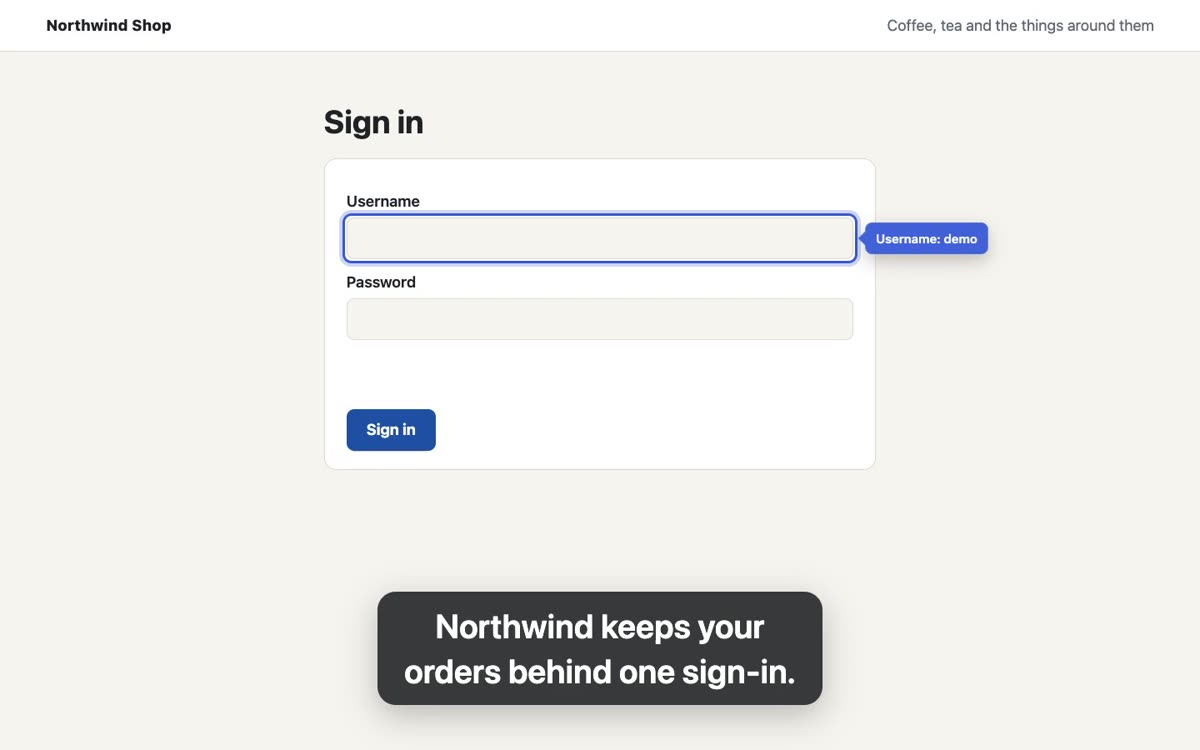
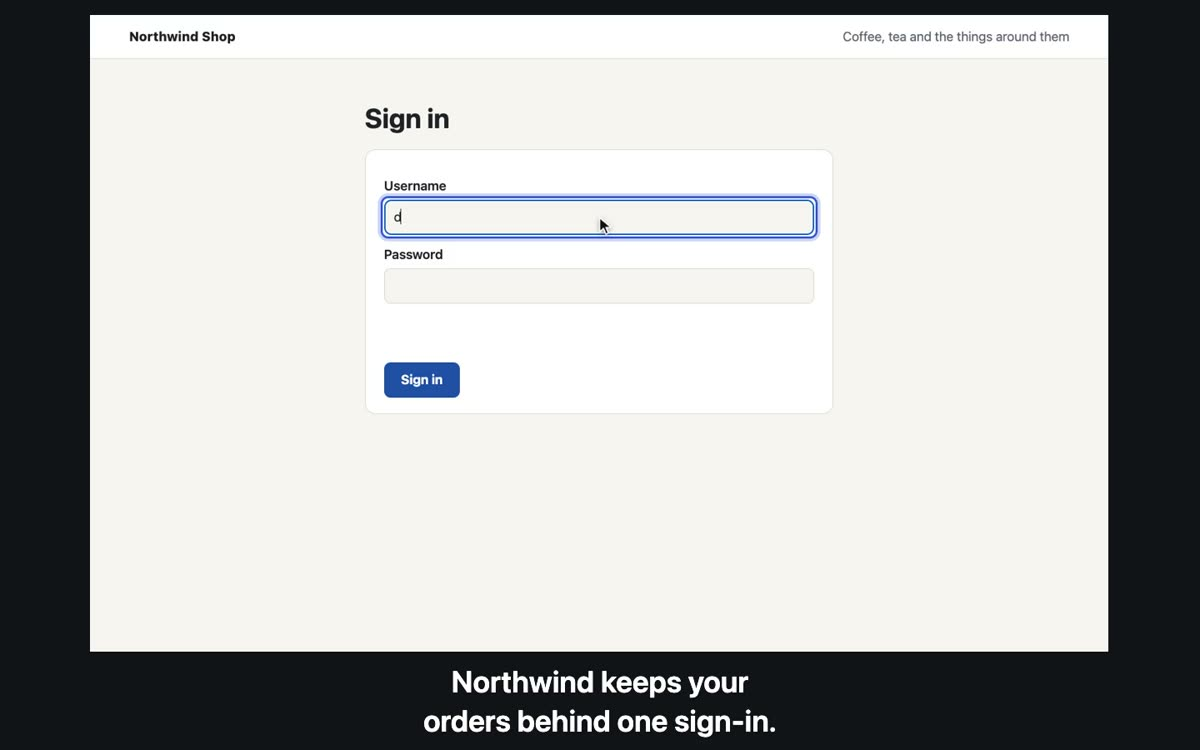
Docs for v2.38.0: three videos per take, the captions band, .vtt, fast-forwarded waits (RULES §27, manual, agent rules and the skill, FEATURES, README, CHANGELOG, the site's Web Demos page and its film frame, the spec, HANDOFF, CLAUDE.md)

diff --git a/docs/superpowers/specs/2026-11-10-web-demos.md b/docs/superpowers/specs/2026-11-10-web-demos.md
@@ -31,8 +31,10 @@ The two share the **script format** (this file is its source), not code.
 4. **Both outputs:** one MP4 per feature *and* one full video with chapters.
 5. **Callouts** in the video (notes pointing at an element, e.g. the demo login
    to use).
-6. **Captions** of the narration: an `.srt` always, burned into the video with
-   `--captions`.
+6. **Captions** of the narration: an `.srt` and a `.vtt` always, and since
+   v2.38.0 a `.captions.mp4` beside the plain video, with the picture shrunk
+   above a band where the captions go (burned-in captions over the picture
+   hid the command just typed in terminal scenes; the founder, 2026-11-10).
 7. **si's voice is Kokoro `af_heart`** (`voice: kokoro:af_heart`): the voice
    of si's own manual and site videos, and the default when Kokoro is
    installed (the founder picked it from samples on 2026-11-10; Kokoro made 8 s
@@ -112,24 +114,32 @@ matter), then fails with the closest matches it saw.
 ```bash
 si demo run shop.md            # the videos, the narration, captions, chapters, the report
 si demo test shop.md           # the checks only: fast, no video; exit 1 on a failure; --junit report.xml
-si demo run shop.md --feature "Pay for an order" --captions --viewport phone
+si demo run shop.md --feature "Pay for an order" --viewport phone
 ```
 
 ### `si demo run`: what it writes (`demo-out/<script>/`)
 
 | File | What |
 |---|---|
-| `<feature>.mp4` | the feature, video and voice mixed (H.264 + AAC) |
-| `<feature>.video.mp4` | the same video, silent |
+| `<feature>.mp4` | the feature, picture and voice mixed (H.264 + AAC), no captions |
+| `<feature>.video.mp4` | the picture alone: no sound, no captions |
+| `<feature>.captions.mp4` | picture, voice and captions: the picture shrunk (aspect kept) into the top of the same frame, centered on #111318, the captions white in a band under it (v2.38.0) |
 | `<feature>.voice.m4a` (and `.wav`) | the narration alone, to re-voice or edit |
-| `<feature>.srt` | captions of the `Say:` lines, timed |
+| `<feature>.srt` + `<feature>.vtt` | captions of the `Say:` lines, timed (VTT for a web page's `<track>`) |
 | `all.mp4` | every feature in one video, a title card per feature, chapters embedded |
+| `all.video.mp4` · `all.captions.mp4` | the same, picture only, and with the captions band |
+| `all.srt` · `all.vtt` | the captions of `all.mp4` |
 | `chapters.txt` | YouTube chapter lines (`0:00 Pay for an order`) |
 | `report.html` + `report.json` | the run (see the QA report) |
 | `README.md` + `README.html` | what is in the folder: a table of every file, each feature with its video playing in the page, the script, how it was made (the founder asked for both, 2026-11-10; README.html is built by si itself, videos linked, not inlined) |
 
-`--captions` burns the narration into the video (bottom, the theme's look,
-two lines at most); without it, the `.srt` sits beside the video.
+All three videos come from one take (`--no-captions` skips the captions
+ones; `--captions` is a no-op kept for old commands). A wait (`run … · wait`,
+`stop … · wait`, `wait for output`, `expect output … within`, `wait for "…"`,
+`start … · wait for …`) plays at speed for its first 3 s and faster after
+(at most 2 s, a ⏩ N× badge), never under the voice; the take records the
+wait windows and the encoder maps time (`--fast-forward 3s`,
+`--no-fast-forward`).
 
 ### How a take works
 

diff --git a/docs/site/features/webdemos.md b/docs/site/features/webdemos.md
@@ -109,7 +109,7 @@ that the shop does not know.
 ## On film
 
 ```bash
-SHOP_PASSWORD=shop-demo si demo run shop.md --captions
+SHOP_PASSWORD=shop-demo si demo run shop.md
 ```
 
 The same steps, filmed in a browser you never see. A drawn cursor glides to
@@ -117,7 +117,7 @@ each button and a ripple marks the click; `note "Username: demo" at
 "Username"` puts a bubble beside the field until the narration moves on; text
 is typed at a person's pace, and a field typed from a `$VAR` is blurred.
 
-![A frame of the sign-in video: the Username field ringed, a note "Username: demo" beside it, and the caption "Northwind keeps your orders behind one sign-in."](img/webdemos/film.jpg)
+![A frame of the sign-in captions video: the drawn cursor in the Username field as "demo" is typed, the picture a little smaller at the top, and under it, in a dark band, the caption "Northwind keeps your orders behind one sign-in."](img/webdemos/film.jpg)
 
 **The words set the pace.** Every `Say:` line is voiced before the take and
 measured; the steps under it are spread over its words, and a block whose
@@ -129,18 +129,29 @@ In `demo-out/shop/`:
 
 | File | What |
 |---|---|
-| `pay-for-an-order.mp4` | the feature, video and voice |
-| `pay-for-an-order.video.mp4` | the same, silent |
+| `pay-for-an-order.mp4` | the feature, picture and voice |
+| `pay-for-an-order.video.mp4` | the picture alone, no sound |
+| `pay-for-an-order.captions.mp4` | picture, voice and captions in a band under the picture |
 | `pay-for-an-order.voice.m4a` · `.wav` | the narration alone |
-| `pay-for-an-order.srt` | captions, timed |
-| `all.mp4` | every feature after a title card, chapters inside |
+| `pay-for-an-order.srt` · `.vtt` | captions, timed (SubRip, and WebVTT for the web) |
+| `all.mp4` · `all.video.mp4` · `all.captions.mp4` | every feature after a title card, chapters inside |
+| `all.srt` · `all.vtt` | the captions of `all.mp4` |
 | `chapters.txt` | `0:00 Sign in` lines for a YouTube description |
 | `report.html` · `report.json` | the run, linked to the clips |
-| `README.md` · `README.html` | every file, each video in the page, the script, how it was made |
+| `README.md` · `README.html` | every file, each video in the page with its captions track, the script, how it was made |
 
-`--captions` burns the captions into the video as well (bottom, two lines at
-most); `--viewport phone` films the phone layout; `--feature "Pay for an
-order"` films one feature.
+The three videos come from one take. In the captions video the picture shrinks
+into the top of the frame and the captions sit in a dark band under it, so
+they never hide the command just typed. `--no-captions` skips those videos;
+`--viewport phone` films the phone layout; `--feature "Pay for an order"`
+films one feature.
+
+**Long waits play faster.** A command that runs for a while, a program
+starting, a wait for some output: after its first 3 s the video plays it
+faster (it lasts 2 s at most) with a ⏩ badge in the corner. The voice is
+never sped up, and the captions and chapters follow the shorter video.
+`--fast-forward 5s` changes the 3 s; `--no-fast-forward` keeps every wait as
+it was.
 
 ## With a terminal
 

diff --git a/docs/RULES.md b/docs/RULES.md
@@ -2811,8 +2811,9 @@ si demo: 0 passed, 1 failed in 6.9s; report: demo-out/shop/report.html
 
 ```bash
 SHOP_PASSWORD=shop-demo si demo run shop.md
-si demo run shop.md --feature "Pay for an order" --captions --viewport phone
+si demo run shop.md --feature "Pay for an order" --viewport phone
 si demo run shop.md --voice system:Samantha -o videos/
+si demo run broker.md --fast-forward 5s --no-captions
 ```
 
 The same steps, filmed: a drawn cursor glides to each element and clicks
@@ -2827,16 +2828,30 @@ It writes into `demo-out/<script>/` (or `-o dir`):
 
 | File | What |
 |---|---|
-| `<feature>.mp4` | the feature, video and voice (H.264 + AAC, 30 fps) |
-| `<feature>.video.mp4` | the same video, silent |
+| `<feature>.mp4` | the feature, picture and voice (H.264 + AAC, 30 fps), no captions |
+| `<feature>.video.mp4` | the picture alone: no sound, no captions |
+| `<feature>.captions.mp4` | picture, voice and captions: the picture shrinks (aspect kept) into the top of the same frame, centered on a near-black backdrop, and the captions (white, two lines at most) sit in a band under it, so they never cover the picture |
 | `<feature>.voice.wav` · `.voice.m4a` | the narration alone, to edit or re-voice |
-| `<feature>.srt` | captions of the `Say:` lines, timed (always; `--captions` also burns them into the video, bottom, two lines at most) |
-| `all.mp4` | every feature, each after a title card (the feature and its `What it does:`), chapters embedded |
+| `<feature>.srt` · `<feature>.vtt` | captions of the `Say:` lines, timed: SubRip, and WebVTT for a web page's `<track>` |
+| `all.mp4` · `all.video.mp4` · `all.captions.mp4` | every feature, each after a title card (the feature and its `What it does:`), chapters embedded: with voice, picture only, with voice and captions |
+| `all.srt` · `all.vtt` | the captions of `all.mp4` |
 | `chapters.txt` | YouTube chapter lines: `0:00 Sign in` |
 | `report.html` · `report.json` | the run, each feature linked to its clip |
 | `README.md` · `README.html` | the folder: every file, each feature with its video (linked, not inlined), the script, how it was made |
 
 `<feature>` is the heading in lower case with dashes (`pay-for-an-order`).
+The three videos come from one take; a feature without `Say:` lines gets
+`.video.mp4` and a `.mp4` with silent sound only. `--no-captions` skips the
+`.captions.mp4` files (a faster run; the `.srt` and `.vtt` are still written);
+`--captions`, from before v2.38.0, is accepted and does nothing.
+
+**Long waits play faster.** A step that waits (`run … · wait`, `stop … ·
+wait`, `wait for output`, `expect output … within`, `wait for "…"`, `start … ·
+wait for …`) plays at speed for its first 3 s; the rest plays faster, so it
+lasts 2 s at most, with a ⏩ 6× badge at the top right. The narration never
+speeds up: a stretch under a `Say:` voice stays at speed, and the captions and
+chapters are timed on the faster video. `--fast-forward 5s` changes the 3 s;
+`--no-fast-forward` keeps every wait at speed.
 
 **Voices.** `voice: engine:name` in front matter, or `--voice`:
 

diff --git a/plugin/skills/si/references/27-web-demos.md b/plugin/skills/si/references/27-web-demos.md
@@ -108,8 +108,9 @@ si demo: 0 passed, 1 failed in 6.9s; report: demo-out/shop/report.html
 
 ```bash
 SHOP_PASSWORD=shop-demo si demo run shop.md
-si demo run shop.md --feature "Pay for an order" --captions --viewport phone
+si demo run shop.md --feature "Pay for an order" --viewport phone
 si demo run shop.md --voice system:Samantha -o videos/
+si demo run broker.md --fast-forward 5s --no-captions
 ```
 
 The same steps, filmed: a drawn cursor glides to each element and clicks
@@ -124,16 +125,30 @@ It writes into `demo-out/<script>/` (or `-o dir`):
 
 | File | What |
 |---|---|
-| `<feature>.mp4` | the feature, video and voice (H.264 + AAC, 30 fps) |
-| `<feature>.video.mp4` | the same video, silent |
+| `<feature>.mp4` | the feature, picture and voice (H.264 + AAC, 30 fps), no captions |
+| `<feature>.video.mp4` | the picture alone: no sound, no captions |
+| `<feature>.captions.mp4` | picture, voice and captions: the picture shrinks (aspect kept) into the top of the same frame, centered on a near-black backdrop, and the captions (white, two lines at most) sit in a band under it, so they never cover the picture |
 | `<feature>.voice.wav` · `.voice.m4a` | the narration alone, to edit or re-voice |
-| `<feature>.srt` | captions of the `Say:` lines, timed (always; `--captions` also burns them into the video, bottom, two lines at most) |
-| `all.mp4` | every feature, each after a title card (the feature and its `What it does:`), chapters embedded |
+| `<feature>.srt` · `<feature>.vtt` | captions of the `Say:` lines, timed: SubRip, and WebVTT for a web page's `<track>` |
+| `all.mp4` · `all.video.mp4` · `all.captions.mp4` | every feature, each after a title card (the feature and its `What it does:`), chapters embedded: with voice, picture only, with voice and captions |
+| `all.srt` · `all.vtt` | the captions of `all.mp4` |
 | `chapters.txt` | YouTube chapter lines: `0:00 Sign in` |
 | `report.html` · `report.json` | the run, each feature linked to its clip |
 | `README.md` · `README.html` | the folder: every file, each feature with its video (linked, not inlined), the script, how it was made |
 
 `<feature>` is the heading in lower case with dashes (`pay-for-an-order`).
+The three videos come from one take; a feature without `Say:` lines gets
+`.video.mp4` and a `.mp4` with silent sound only. `--no-captions` skips the
+`.captions.mp4` files (a faster run; the `.srt` and `.vtt` are still written);
+`--captions`, from before v2.38.0, is accepted and does nothing.
+
+**Long waits play faster.** A step that waits (`run … · wait`, `stop … ·
+wait`, `wait for output`, `expect output … within`, `wait for "…"`, `start … ·
+wait for …`) plays at speed for its first 3 s; the rest plays faster, so it
+lasts 2 s at most, with a ⏩ 6× badge at the top right. The narration never
+speeds up: a stretch under a `Say:` voice stays at speed, and the captions and
+chapters are timed on the faster video. `--fast-forward 5s` changes the 3 s;
+`--no-fast-forward` keeps every wait at speed.
 
 **Voices.** `voice: engine:name` in front matter, or `--voice`:
 

diff --git a/docs/reference/user-manual.md b/docs/reference/user-manual.md
@@ -329,23 +329,28 @@ Points:
 ## Web demos, on film
 
 ```bash
-SHOP_PASSWORD=shop-demo si demo run shop.md --captions
+SHOP_PASSWORD=shop-demo si demo run shop.md
 ```
 
 - A drawn cursor, click ripples, `note "…" at "Field"` callouts, blurred `$VAR` fields
 - Each `Say:` line voiced first: the narration sets the pace
 - `voice: kokoro:af_heart` (the default when installed), `system`, `elevenlabs`, `openai`
 - `pronounce: si = ess eye`: the voice says it, the captions keep the word
-- `<feature>.mp4` each, `all.mp4` with chapters, `chapters.txt`, `.srt`, README.html
+- Three videos per feature: `.video.mp4` (picture), `.mp4` (+ voice), `.captions.mp4` (captions under the picture)
+- `all.mp4` (and its two variants) with chapters, `chapters.txt`, `.srt` + `.vtt`, README.html
+- Long waits play faster, with a ⏩ badge; the voice never speeds up
 
 Notes: (1 min)
 The same script makes the videos. Every Say line is spoken first, so the
 words set the pace and the steps fit between them. A cursor glides to each
 button, notes point at the fields that matter, and passwords are blurred.
-You get one video per feature, one with chapters for YouTube, captions, and
-a page that lists it all. [CLICK]
+Each feature comes out three ways: the picture alone, with the voice, and with
+captions in a band under the picture, so they never hide what was typed. A
+long wait plays faster, and the voice stays at its own pace. You also get one
+video with chapters for YouTube and a page that lists it all. [CLICK]
 
 Points:
+- `--no-captions` skips the captions videos; `--fast-forward 5s` or `--no-fast-forward` for waits
 - Kokoro is si's own voice: `si voice install kokoro`, one command; without it, the computer's voice
 - Try a voice aloud: `si voice say "Hello" --voice kokoro:bf_emma`; `si voice list`
 - Cloud keys: `si voice login openai` keeps the key in your own si.conf, never the project's
@@ -397,7 +402,7 @@ si build <dir> --pdf       # self-contained HTML (+ PDF)
 si build talk.md --handout # handouts/talk.pdf: slides only; =lines, =points, =notes add space or speaker text
 si check <dir>             # validate; exit 1 on a problem
 si demo test shop.md       # run a web demo script against a web app as a test (report.html, --junit)
-si demo run shop.md        # the same, filmed and narrated: <feature>.mp4, all.mp4 with chapters, .srt (--captions)
+si demo run shop.md        # the same, filmed and narrated: <feature>.mp4, .video.mp4, .captions.mp4, all.mp4 with chapters, .srt/.vtt
 si doctor                  # the optional programs (Chrome, ffmpeg, git…): found or not, how to install each
 si new <name>              # scaffold a deck (the showcase, every rule)
 si new <name> --type article   # a small starter: deck, article, guide, book, site, page, lab, demo, mindmap, mindmap3d, codeshow

diff --git a/HANDOFF.md b/HANDOFF.md
@@ -5,6 +5,27 @@ Markdown/AsciiDoc into animated, self-contained HTML slide decks.
 
 ## Current state (2026-11-10)
 
+- **v2.38.0 (unreleased, on a worktree branch): three videos per take, the
+  captions band, fast-forwarded waits.** `internal/webdemo/film.go`
+  `finishTake` writes `.video.mp4` (picture + fast-forward badges),
+  `.mp4` (that + the voice, `-c:v copy`) and `.captions.mp4` (the same image
+  sequence encoded again: badges, then `band(w, h)` = scale to 85% + pad on
+  0x111318 at 2% from the top, then the caption PNGs in the bottom 13%, voice
+  muxed in the same call), `.srt` + `.vtt`; `joinAll` adds `all.video.mp4`
+  (all.mp4 with `-map 0:v -c copy`, chapters ride along), `all.captions.mp4`
+  (allArgs over the captions clips) and `all.srt`/`all.vtt`
+  (`joinCaptions`). Fast-forward: `r.waiting()` records wait windows in
+  `tk.waits` (run · wait, stop · wait, expect/wait for output, start, browser
+  wait for); `fastForward` (encode.go) cuts each to `[from+after, to]`,
+  subtracts `tk.spoken` (the voice never plays over sped-up picture), picks
+  X = ceil(len/2 s); `sequence` samples the take through `inT`, voice,
+  captions and badges are placed with `outT`, so the clip length (and the
+  chapters) come from the output. Options: `NoCaptions`, `FastForward`
+  (`--fast-forward 3s` default in cmd, 0 in tests); `--captions` is a no-op.
+  FeatureResult gains `videoOnly` / `videoCaptions`. Verified: broker.md,
+  shop.md and a `sleep 14` script (a 6× badge, 9.2 s shorter), frames looked
+  at. Next: a nicer badge animation; a `fast-forward:` front-matter key if
+  someone asks.
 - **v2.37.0 (unreleased, on a worktree branch): `si voice`.**
   `cmd/si/voice.go`: `say` (voice: `--voice` > si.conf `voice:` > default;
   an engine whose `Ready()` fails falls back to `system` with one stderr

diff --git a/CHANGELOG.md b/CHANGELOG.md
@@ -3,6 +3,22 @@
 What changed in each release of si, newest first. Every release, with its
 binaries and the Mac app: https://github.com/felipeg48/simple-ideas/releases
 
+- **v2.38.0:** `si demo run` makes three videos from one take: `<feature>.video.mp4`
+  (the picture alone), `<feature>.mp4` (picture and voice) and
+  `<feature>.captions.mp4` (picture, voice and captions); the same for the
+  whole run (`all.video.mp4`, `all.mp4`, `all.captions.mp4`, title cards and
+  chapters in each). Captions never cover the picture any more: in the
+  captions video the picture shrinks into the top of the frame and the
+  captions sit in a dark band under it (they used to hide the command just
+  typed in a terminal). A `.vtt` is written beside every `.srt` (and
+  `all.srt`/`all.vtt`), and README.html plays each feature with a captions
+  track and links all three videos; so does the report. Long waits play
+  faster: after its first 3 s a command, a program starting or a wait for
+  output is sped up to last 2 s at most, with a ⏩ badge; the voice is never
+  sped up, captions and chapters follow the shorter video (`--fast-forward
+  5s`, `--no-fast-forward`). `--no-captions` skips the captions videos;
+  `--captions` still runs and does nothing. Web demos keep backslashes in
+  quoted step values except `\"` and `\\`.
 - **v2.37.0:** `si voice`: `si voice install kokoro` sets Kokoro up in one
   command (a Python venv with kokoro-onnx 0.6.1 and the two model files,
   SHA-256 checked, in the user cache; idempotent; `--dir`; `si voice uninstall

diff --git a/FEATURES.md b/FEATURES.md
@@ -147,10 +147,15 @@ an example for every rule: [RULES.md](docs/RULES.md).
 - **`si demo run`:** the same steps filmed and narrated: a drawn cursor that
   glides, click ripples, `note "…" at "Field"` callouts, blurred `$VAR`
   fields; each `Say:` line voiced first so the words set the pace;
-  `<feature>.mp4` (+ silent `.video.mp4`, `.voice.wav/.m4a`, `.srt`),
-  `all.mp4` with a title card per feature and chapters, `chapters.txt` for
-  YouTube, the report and README.md + README.html. `--captions` burns the
-  captions in; `--viewport phone`; a failing step ends its clip.
+  three videos per feature from one take: `.video.mp4` (picture only),
+  `.mp4` (picture + voice) and `.captions.mp4` (the picture shrunk above a
+  band with the captions, so they never cover it); `.voice.wav/.m4a`, `.srt`
+  and `.vtt`; `all.mp4`, `all.video.mp4` and `all.captions.mp4` with a title
+  card per feature and chapters, `chapters.txt` for YouTube, the report and
+  README.md + README.html (the video with a captions track). Long waits play
+  faster with a ⏩ badge, the voice never (`--fast-forward 3s`,
+  `--no-fast-forward`); `--no-captions`; `--viewport phone`; a failing step
+  ends its clip.
 - **Voices:** `kokoro:af_heart` (local, the default when installed),
   `system` (say, espeak-ng, Windows), `elevenlabs`, `openai` (`voice-style:`);
   `pronounce: si = ess eye`; lines cached, only changed lines re-voiced.

diff --git a/docs/agent-rules.md b/docs/agent-rules.md
@@ -34,8 +34,10 @@ si play talk.md --audience      # the room follows on their phones; <!-- qr: aud
 si play talk.md --tunnel        # the same for a remote audience (a video call): a temporary public link
 si demo test shop.md            # a web demo script (type: demo + app:) run against the web app in headless Chrome:
                                 # report.html + report.json in demo-out/shop/, exit 1 on a failure, --junit junit.xml for CI
-si demo run shop.md             # the same steps filmed and narrated: <feature>.mp4, all.mp4 with chapters,
-                                # chapters.txt, .srt (--captions burns them in), README.html; --voice, --viewport
+si demo run shop.md             # the same steps filmed and narrated, three videos per feature: .video.mp4 (picture),
+                                # .mp4 (+ voice), .captions.mp4 (captions in a band under the picture); all.mp4 (and
+                                # all.video.mp4, all.captions.mp4) with chapters, chapters.txt, .srt + .vtt, README.html;
+                                # long waits play faster (--fast-forward 3s, --no-fast-forward); --no-captions, --voice, --viewport
 ```
 
 ## A deck

diff --git a/plugin/skills/si/SKILL.md b/plugin/skills/si/SKILL.md
@@ -59,8 +59,10 @@ si play talk.md --audience      # the room follows on their phones; <!-- qr: aud
 si play talk.md --tunnel        # the same for a remote audience (a video call): a temporary public link
 si demo test shop.md            # a web demo script (type: demo + app:) run against the web app in headless Chrome:
                                 # report.html + report.json in demo-out/shop/, exit 1 on a failure, --junit junit.xml for CI
-si demo run shop.md             # the same steps filmed and narrated: <feature>.mp4, all.mp4 with chapters,
-                                # chapters.txt, .srt (--captions burns them in), README.html; --voice, --viewport
+si demo run shop.md             # the same steps filmed and narrated, three videos per feature: .video.mp4 (picture),
+                                # .mp4 (+ voice), .captions.mp4 (captions in a band under the picture); all.mp4 (and
+                                # all.video.mp4, all.captions.mp4) with chapters, chapters.txt, .srt + .vtt, README.html;
+                                # long waits play faster (--fast-forward 3s, --no-fast-forward); --no-captions, --voice, --viewport
 ```
 
 ## A deck

diff --git a/CLAUDE.md b/CLAUDE.md
@@ -200,9 +200,13 @@ pass. The steps that matter:
   2 video + 3 voice DONE v2.35.0: `si demo run`, `internal/webdemo/film.go`,
   `encode.go`, `voice.go`, `overlay.js`): one `type: demo` script with
   `app: <url>` makes narrated videos of a web app (per feature and one with
-  chapters, callouts, `--captions`, voice engines local and cloud) and runs as a
+  chapters, callouts, captions, voice engines local and cloud) and runs as a
   test (`si demo test`, report, JUnit). Phases: test mode, video, voice, the
   manual with videos, then Retake's CLAUDE.md gets the shared script format.
+  **Three videos per take** (DONE v2.38.0): `.video.mp4`, `.mp4`,
+  `.captions.mp4` (picture shrunk above a captions band, never covered), `.vtt`
+  beside `.srt`, long waits fast-forwarded with a badge (`fast-forward` in
+  `encode.go`; the voice never sped up).
   **`si voice`** (DONE v2.37.0, `cmd/si/voice.go`, `internal/tools/kokoro.go`):
   `install kokoro` (venv + kokoro-onnx 0.6.1 + SHA-256-pinned models in the
   user cache), `say` (plays like macOS say, falls back to system), `list`,

diff --git a/README.md b/README.md
@@ -194,7 +194,7 @@ SVG or PDF with your logo in the middle, a Wi-Fi network or a contact.
 One Markdown script performs each feature of your web app the way a person
 would. `si demo test` checks it (a report, JUnit for CI); `si demo run` films
 it with a cursor, callouts and a narrated voice: one video per feature, one
-with chapters, captions. It can start your server in the background and type
+with chapters, each also with captions under the picture. It can start your server in the background and type
 commands into a real terminal on camera, check their output, then switch to
 the browser. [Web demos →](https://simple-ideas.org/features/webdemos.html)
 
